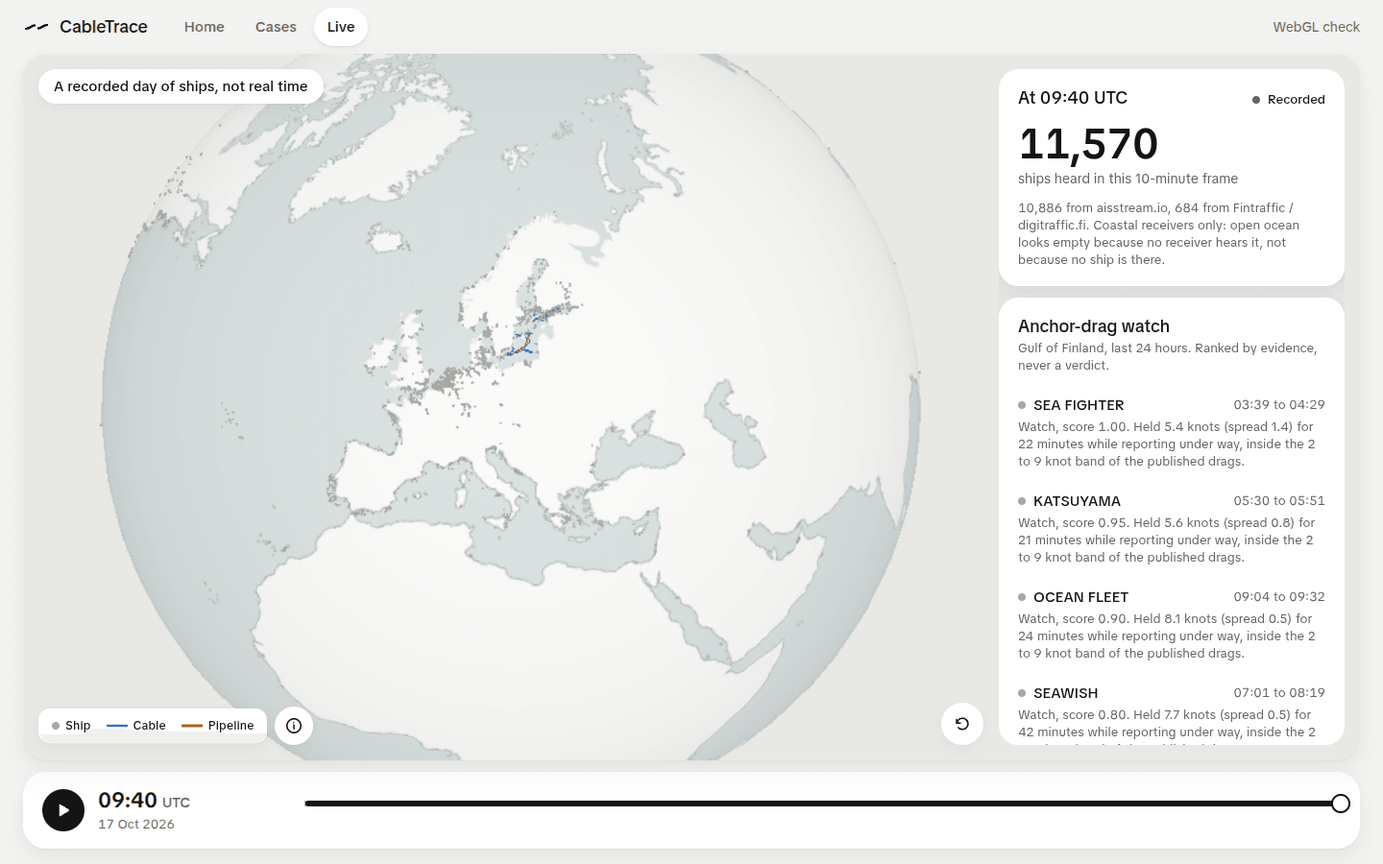
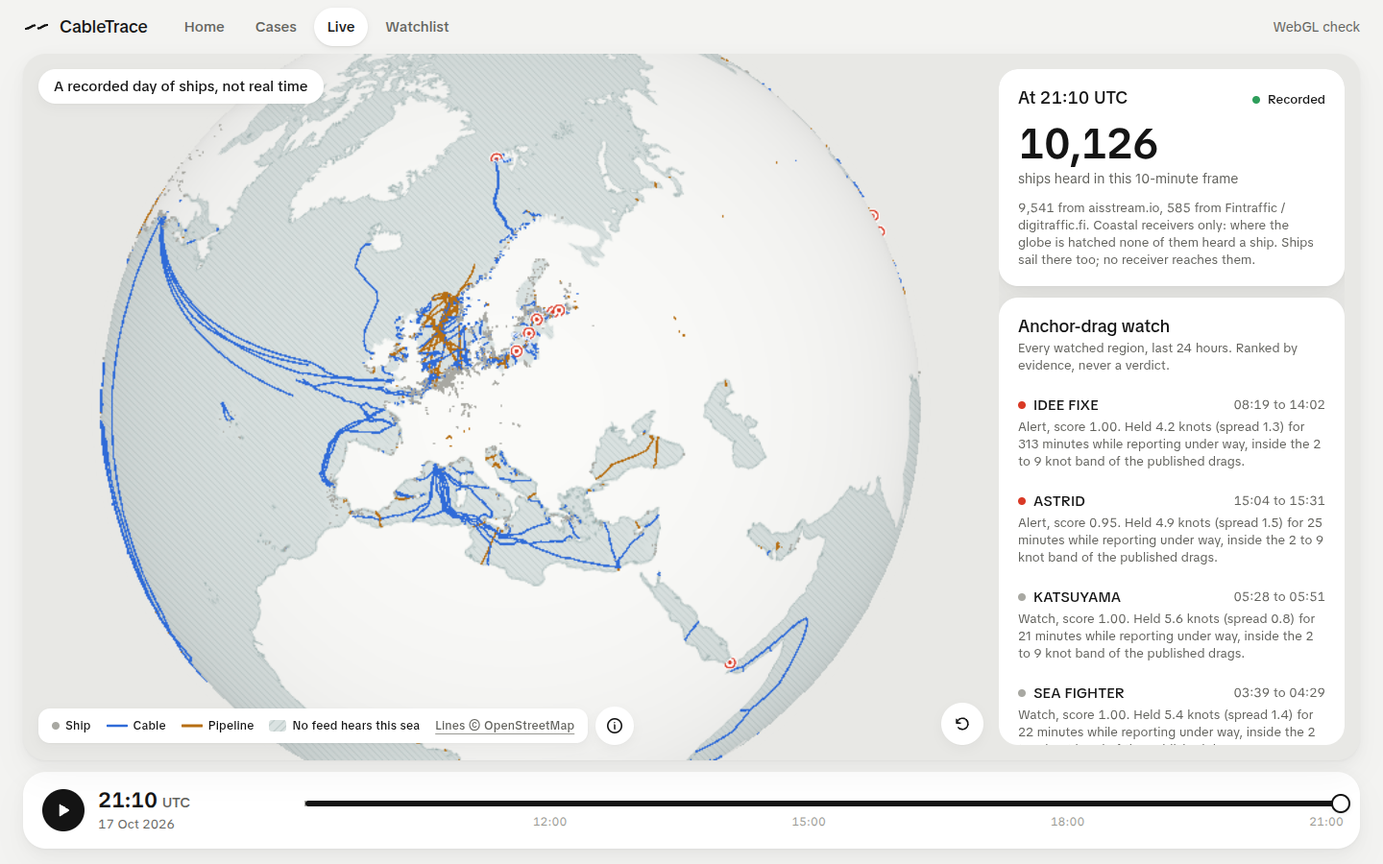
Bring the README up to ten cases, eight regions and today's honest numbers (#33)
The README still described five Baltic cases, one watched region, and
"not built" items that now exist (fault signals, sign-in and watchlists,
more regions). Its backtest badge also said 15 of 15, which no longer
holds.

Updated from fresh runs on 17 Oct 2026:
- 10 cases, 127 sources, 113 archived copies; the Svalbard replay from
the trawler's own AIS.
- Eight watched regions and 336 lines, the detector's per-region depth,
draft cases from fault signals, the watchlist, and the globe's world
lines.
- The backtest at 14 of 15. Gulf traffic gave 2.55 alerts a day against
a target of under 1, stated as an honest finding.
- The new Eagle S case-file hash (5e70b383...19b89, intact), the 276
tests, and the deployed detector run.
- New limits: Rubymar labelled probable, the Svalbard case closed with
no offence, a thin fault-signal feed, and Clerk's development instance.
- A new `/live` screenshot from production with the world lines and the
coverage hatch.
- The data table adds GEBCO, Kystdatahuset (NLOD), ODbL terms for the
derived line files, the ITU MID table and the fault-signal sources.

The TestSprite section is unchanged.

diff --git a/README.md b/README.md
@@ -3,16 +3,17 @@
 </p>
 <h1 align="center">CableTrace</h1>
 <p align="center">
-  The Baltic's anchor-drag cable cuts, replayed in 3D from the published record. Every placed position states how it
-  was derived, every event links to a verbatim quote from its source, and every case downloads as a file whose
-  SHA-256 anyone can recompute.
+  Subsea cable cuts by ships, replayed in 3D from the published record. Every placed position states how it was
+  derived, every event links to a verbatim quote from its source, and every case downloads as a file whose SHA-256
+  anyone can recompute.
 </p>
 <p align="center">Built for the TestSprite Hackathon Season 4, Project Track. Live at <a href="https://cabletrace.vercel.app">cabletrace.vercel.app</a>.</p>
 
 <p align="center">
   <img alt="live" src="https://img.shields.io/badge/live-cabletrace.vercel.app-2E9E5B">
-  <img alt="cases" src="https://img.shields.io/badge/cases-5%20incidents%2C%2088%20sources-2F6BD8">
-  <img alt="detector backtest" src="https://img.shields.io/badge/detector%20backtest-15%20of%2015-D93A26">
+  <img alt="cases" src="https://img.shields.io/badge/cases-10%20incidents%2C%20127%20sources-2F6BD8">
+  <img alt="watched regions" src="https://img.shields.io/badge/watched-8%20regions%2C%20336%20lines-62625D">
+  <img alt="detector backtest" src="https://img.shields.io/badge/detector%20backtest-14%20of%2015-D93A26">
   <img alt="stack" src="https://img.shields.io/badge/stack-Next.js%2016%20%2B%20three.js%200.186-141414">
   <img alt="data" src="https://img.shields.io/badge/data-Supabase%20%2B%20pg__cron-B66E12">
 </p>
@@ -25,77 +26,98 @@
 
 | A recorded day of the world's ships (`/live`)                           | Every quote copied from a source                                   |
 | ----------------------------------------------------------------------- | ------------------------------------------------------------------ |
-| ![The live globe with 10,435 ships and the anchor-drag watch](docs/screenshots/05-live-globe.png) | ![The sources sheet of the Eagle S case](docs/screenshots/04-sources.png) |
+| ![The live globe with 10,126 ships, the world's submarine cables and pipelines, the cuts on file and the anchor-drag watch](docs/screenshots/05-live-globe.png) | ![The sources sheet of the Eagle S case](docs/screenshots/04-sources.png) |
 
 ## 🎯 The problem
 
-Between October 2023 and December 2025, the five incidents replayed here damaged seven Baltic cables and one gas
-pipeline, each time by a merchant ship that sailed on while its anchor dragged along the seabed. Each time, the facts arrive in pieces:
-police statements, operator notices, prosecutors' releases, a MarineTraffic screenshot in a news story, sometimes a
-day of public AIS. Readers get a map with a red line and no way to tell which part is measured and which is a guess.
+The ten incidents replayed here, from Svalbard in January 2022 to the Matsu Islands in March 2026, put 16 cable and
+pipeline cuts on file in the Baltic, the Taiwan Strait, the Red Sea and off Svalbard. In most of them a ship was
+on the spot when the line failed. Each time, the facts arrive in pieces: police statements, operator notices,
+prosecutors' releases, court rulings, a MarineTraffic screenshot in a news story, sometimes a day of public AIS.
+Readers get a map with a red line and no way to tell which part is measured and which is a guess.
 
 The usual answer is a news graphic. It is drawn once, cites nobody line by line, and cannot be checked or reused.
 CableTrace treats each incident as evidence: every position, time and claim carries its source and says how it is
-known, and the gap between "recorded" and "reconstructed" stays visible on screen.
+known, the gap between "recorded" and "reconstructed" stays visible on screen, and a probable finding is labelled as
+one.
 
 ## 🧰 What it does
 
-- **Replays five incidents in 3D.** Fitburg (31 Dec 2025), Vezhen (26 Jan 2025), Eagle S (25 Dec 2024), Yi Peng 3
-  (17 and 18 Nov 2024) and Newnew Polar Bear (7 and 8 Oct 2023), each on a seabed block built from EMODnet depth and
-  Copernicus land heights, with the cables and pipelines of the area. The anchor drag turns the track red; each cut
-  breaks its cable at the time the sources give.
+- **Replays ten incidents in 3D.** In the Baltic: Fitburg (2025), Vezhen (2025), Eagle S (2024), Yi Peng 3 (2024) and
+  Newnew Polar Bear (2023). In the Taiwan Strait: Hai Hong Gong 66 (2026), Minlianyu 60138 (2025) and Hong Tai 58 (2025). Rubymar
+  in the Red Sea (2024) and the Svalbard cable fault (2022). Each sits on a seabed block built from EMODnet depth
+  (Europe) or the GEBCO 2026 grid (Taiwan, Red Sea) and Copernicus land heights, drawn at an exaggeration that fits its
+  depth: 20 times in the Baltic, 2 times off Svalbard. The anchor drag turns the track red; each cut breaks its cable
+  at the time the sources give.
 - **Says how every position is known.** A placed position carries a `placement` text (`src/data/cases/*.ts`): "the
-  point 130 km along the mapped route from its Ventspils end, the distance LVRTC gives". Recorded AIS fixes (Yi Peng 3:
-  114 from the Danish Maritime Authority archive; Vezhen: 35) are drawn solid, placed stretches dashed.
-- **Cites every claim verbatim.** 88 sources across the five cases, 78 with a Wayback Machine copy; a quote not in
-  English keeps a translation beside the original.
+  point 130 km along the mapped route from its Ventspils end, the distance LVRTC gives". Recorded AIS fixes (Svalbard:
+  235 of the trawler's own reports from the Norwegian Coastal Administration; Yi Peng 3: 114 from the Danish Maritime
+  Authority archive; Vezhen: 35) are drawn solid, placed stretches dashed.
+- **Cites every claim verbatim.** 127 sources across the ten cases, 113 with a Wayback Machine copy; a quote not in
+  English keeps a translation beside the original. Rubymar's cause is labelled a probable finding on every event.
 - **Exports each case as a checkable file.** `/cases/<slug>/case-file` serves the case as JSON with the SHA-256 of its
   canonical form; `scripts/cases/verify-case-file.ts` recomputes it.
-- **Watches the Gulf of Finland.** A recorder stores every ship within 3 km of a cable once a minute (Fintraffic
-  Digitraffic). Every 30 minutes an anchor-drag detector ranks the last 6 hours of tracks by evidence and writes
-  `detections`; `/live` lists them.
+- **Watches eight regions.** A recorder stores every ship within 3 km of one of 336 cables and pipelines once a
+  minute: Fintraffic Digitraffic in the Gulf of Finland, a 40 s aisstream.io listen in the Central Baltic, the Danish
+  straits, the English Channel, the North Sea off Shetland, Norway and Svalbard, the Taiwan Strait and Perth. Every 30
+  minutes an anchor-drag detector ranks the last 6 hours of tracks by evidence, with each region's depth grid, and
+  writes `detections`.
+- **Opens draft cases from fault signals.** `match-fault-signals` polls NGA navigational warnings and IODA internet
+  outage alerts, matches each signal to a recorded cable and lists the ships recorded near it before the fault, ranked
+  by the detector. Every draft says "Draft case", never a finding (`docs/FAULT_SIGNALS.md`).
+- **Keeps a watchlist.** Signed-in readers (Clerk) watch a ship, a cable or a case; `/watchlist` lists the detector's
+  alerts on them from the last 24 hours.
 - **Shows a recorded day of the world's ships.** Every 10 minutes a collector writes one compressed frame of every ship
-  aisstream.io and Digitraffic heard; `/live` plays the last 24 hours on a globe, each ship moving between frames on
-  the GPU.
+  aisstream.io and Digitraffic heard; `/live` plays the last 24 hours on a globe with the world's submarine cables and
+  pipelines (4,186 OpenStreetMap lines), hatches the sea no receiver heard, lists the ships that crossed a clicked
+  line, and dives from a cut on the globe into its case.
 
 ## 🧭 How it works
 
 ```mermaid
 flowchart TD
-    subgraph feeds["Public AIS feeds"]
-        digitraffic["Fintraffic Digitraffic<br>(Baltic, CC BY 4.0)"]
-        aisstream["aisstream.io<br>(world, terrestrial)"]
+    subgraph feeds["Public feeds"]
+        digitraffic["Fintraffic Digitraffic<br>(Gulf of Finland, CC BY 4.0)"]
+        aisstream["aisstream.io<br>(seven regions, the world)"]
+        faultFeeds["NGA warnings, IODA outages"]
     end
     subgraph supabase["Supabase: pg_cron, edge functions, Postgres with PostGIS, Storage"]
-        recorder["record-vessel-positions<br>every minute"]
-        positions[("vessel_positions<br>within 3 km of a cable, 14 days")]
+        recorder["record-vessel-positions<br>every minute, 8 regions"]
+        positions[("vessel_positions<br>within 3 km of a line, up to 72 h")]
         detector["detect-anchor-drag<br>at 4 and 34 past the hour"]
-        detections[("detections<br>RLS, read through functions")]
+        detections[("detections<br>read through functions")]
+        matcher["match-fault-signals<br>every 15 to 60 minutes"]
+        drafts[("draft cases<br>status draft only")]
         collector["collect-ship-frames<br>every 10 minutes"]
-        frames[("ship-frames bucket<br>one frame a slot, 47 hours")]
+        frames[("ship-frames bucket<br>private, 47 hours")]
     end
     subgraph vercel["Vercel: Next.js 16"]
         cases["Case pages and case files<br>prerendered from src/data/cases"]
         frameRoute["/api/ship-frames<br>CDN cache, 2 days a frame"]
+        watchRoute["/watchlist, /api/watchlist<br>Clerk session"]
     end
     subgraph browser["Browser: three.js"]
         replay["Replay console<br>/cases/slug"]
         globe["Live globe<br>/live"]
     end
-    digitraffic -->|"positions"| recorder --> positions
-    positions -->|"0.85 MB a call"| detector --> detections
-    aisstream -->|"105 s of messages"| collector
-    digitraffic -->|"Baltic snapshot"| collector --> frames
-    frames -->|"one fill per frame"| frameRoute -->|"gzip frame"| globe
+    digitraffic -->|"positions"| recorder
+    aisstream -->|"40 s listen"| recorder --> positions
+    positions -->|"detection_inputs"| detector --> detections
+    faultFeeds --> matcher --> drafts
+    positions -->|"ships near the cable"| matcher
+    aisstream -->|"105 s of messages"| collector --> frames
+    frames -->|"secret key, one fill per frame"| frameRoute -->|"gzip frame"| globe
     detections -->|"recent_detections"| globe
+    drafts -->|"recent draft cases"| globe
+    detections --> watchRoute
     cases -->|"HTML, seabed files"| replay
     classDef feedSide fill:#E8E8E5,stroke:#62625D,color:#141414
     classDef dataSide fill:#DAE2E1,stroke:#2E9E5B,color:#141414
     classDef siteSide fill:#FAFAF8,stroke:#141414,color:#141414
     classDef browserSide fill:#F3F3F1,stroke:#2F6BD8,color:#141414
-    class digitraffic,aisstream feedSide
-    class recorder,positions,detector,detections,collector,frames dataSide
-    class cases,frameRoute siteSide
+    class digitraffic,aisstream,faultFeeds feedSide
+    class recorder,positions,detector,detections,matcher,drafts,collector,frames dataSide
+    class cases,frameRoute,watchRoute siteSide
     class replay,globe browserSide
 ```
 
@@ -103,11 +125,13 @@ Gray: outside feeds. Green outline: Supabase. Black outline: Vercel. Blue outlin
 
 The cases are data in the repository, so a case page needs nothing at run time: Vercel prerenders it, and the
 browser loads the seabed block and draws it. Everything live runs on Supabase's free plan and on pg_cron, with no
-server of its own. When a run fails, the failure shows rather than hides:
+server of its own. Recorder tables, detections, drafts and watch items have no public read: the site reads them
+through capped functions or with the secret key on the server. When a run fails, the failure shows rather than hides:
 
 - The recorder card on the home page says "Run failed" or "Stopped" with the minutes since the last run.
 - A collector run that writes no frame leaves a gap in the `/live` timeline, one tick per stored frame.
 - A frame that cannot be loaded puts a notice on the globe, and the last good pair stays on screen.
+- A depth grid the detector cannot load is logged and skipped; ships outside every grid get the unknown-depth band.
 - A browser without WebGL 2 gets "The 3D view did not load" and a retry. On a software renderer (headless test
   browsers) both 3D views drop antialiasing and shadows, draw at a lower pixel ratio and only when something changes.
 
@@ -124,7 +148,7 @@ are in `src/lib/detection/drag-rules.ts`.
 | `speed-deficit`       | 20% or more slower than the ship's own speed before or after               | Eagle S 25%; Yi Peng 3 27% (DMA archive) and 33% (Lloyd's List)            |
 | `speed-change-point`  | a drop of 1.5 kn or more where the run starts                              | a quarter of the 6 to 9 kn band                                            |
 | `heading-offset`      | heading turns 2 degrees or more away from course during the run            | Yi Peng 3: +0.7 against -1.4 degrees, a 2.1 degree shift                   |
-| `cable-contact`       | the reconstructed anchor path crosses a cable, or follows one within 500 m for 2 km | anchor behind the ship by the chain length for its size (IACS UR A1) and the depth |
+| `cable-contact`       | the reconstructed anchor path crosses a cable, or follows one within 500 m for 2 km | anchor behind the ship by the chain length for its size (IACS UR A1) and the depth under it |
 
 An alert needs the strong form of the speed deficit and a straight run; anything weaker stays a watch. Pilot boats,
 tugs, dredgers and other working craft (AIS ship types 30 to 34, 36, 37, 50 to 55 and 58) are not eligible.
@@ -135,27 +159,36 @@ tugs, dredgers and other working craft (AIS ship types 30 to 34, 36, 37, 50 to 5
 | ---------------------------- | ----------------------------------------------------------------------------------------- |
 | The app                      | [cabletrace.vercel.app](https://cabletrace.vercel.app)                                    |
 | A replay                     | [/cases/eagle-s-2024](https://cabletrace.vercel.app/cases/eagle-s-2024)                   |
+| A replay from the trawler's own AIS | [/cases/svalbard-2022](https://cabletrace.vercel.app/cases/svalbard-2022)          |
 | A deep link (minute, view, card) | [/cases/yi-peng-3-2024?t=2024-11-18T07:10Z&mode=ship&view=top](https://cabletrace.vercel.app/cases/yi-peng-3-2024?t=2024-11-18T07:10Z&mode=ship&view=top) |
 | A case file                  | [/cases/eagle-s-2024/case-file](https://cabletrace.vercel.app/cases/eagle-s-2024/case-file) |
 | The recorded day             | [/live](https://cabletrace.vercel.app/live)                                               |
+| Health of the recorder and collector | [/api/health](https://cabletrace.vercel.app/api/health)                           |
 | WebGL check of your browser  | [/diagnostics](https://cabletrace.vercel.app/diagnostics)                                 |
 
 Evidence:
 
 - **A case file checks out.** `bun scripts/cases/verify-case-file.ts https://cabletrace.vercel.app/cases/eagle-s-2024/case-file`
-  printed `computed 2e549bfe...db518`, `intact`, and exited 0 on 17 Oct 2026.
+  printed `computed 5e70b383...19b89`, `intact`, and exited 0 on 17 Oct 2026.
 - **A changed file does not.** The same file with one latitude moved by 0.001 degrees printed
   `ALTERED, the hashes differ` and exited 1.
 - **The detector flags the one drag with public AIS.** On Yi Peng 3's archive track (one report a minute) it raised an
   alert from the first surviving report, 06:01 UTC on 18 Nov 2024, ending at 08:21, 3 minutes before the published
-  end (`bun scripts/backtest/run-backtest.ts`, 15 of 15 expectations).
-- **And stays quiet on ordinary traffic.** Replayed on its live schedule over 7.4 hours of recorded Gulf of Finland
-  traffic (240 ships, 27,336 positions), it raised 0 alerts; 7 red-team tracks (a ship anchored beside a cable, a
-  spoofed position jump, a tug towing across a cable) raised none.
+  end (`bun scripts/backtest/run-backtest.ts`).
+- **And says no to the red team.** 7 red-team tracks (a ship anchored beside a cable, a spoofed position jump, a tug
+  towing across a cable) raised no alert.
+- **But it is noisier than its target on live traffic.** Replayed on its live schedule over 18.8 hours of recorded Gulf
+  of Finland traffic (923 ships, 68,181 positions on 17 Oct 2026), it raised 2 alerts: 2.55 a day against a target of
+  under 1. The backtest reports this as the one failed expectation of 15 and exits 1; the thresholds were not moved to
+  pass it.
 - **The database filter loses nothing.** The live query sends only ships that can hold a drag run; on the same
-  traffic it would have dropped 0 of 194 tracks the detector flagged.
+  traffic it would have dropped 0 of 586 tracks the detector flagged.
+- **The detector runs on all eight regions.** A manual run of the deployed function on 17 Oct 2026 read 237 ships with
+  depth known and stored 45 detections: 1 alert in the Gulf of Finland and 44 watch-level rows.
+- **Strangers read nothing raw.** An anonymous call to `detection_inputs` answers HTTP 401 (permission denied), and a
+  watchlist read without a session is refused.
 - **Every page fits one screen.** `bun scripts/perf/check-one-screen.ts` exits 0 for home, the case list, `/live`
-  and all five cases at 1440 x 900, 1280 x 720 and 1024 x 768; the 3D view covers 65.4% of a 1440 x 900 screen.
+  and all ten cases at 1440 x 900, 1280 x 720 and 1024 x 768; the 3D view covers 65.4% of a 1440 x 900 screen.
 
 ## 🧪 Reproduce it
 
@@ -168,10 +201,11 @@ bun install
 bun run dev
 ```
 
-Open http://localhost:3000. The five replays, the case files and the WebGL check work with no configuration: their
+Open http://localhost:3000. The ten replays, the case files and the WebGL check work with no configuration: their
 data is in the repository. The recorder card and `/live` need a Supabase project with the migrations in
-`supabase/migrations`, and `NEXT_PUBLIC_SUPABASE_URL` and `NEXT_PUBLIC_SUPABASE_PUBLISHABLE_KEY` in `.env.local`;
-without them the card reads "Unavailable" and `/live` says the day could not be loaded.
+`supabase/migrations`, and `NEXT_PUBLIC_SUPABASE_URL`, `NEXT_PUBLIC_SUPABASE_PUBLISHABLE_KEY` and
+`SUPABASE_SECRET_KEY` in `.env.local`; without them the card reads "Unavailable" and `/live` says the day could not be
+loaded. The watchlist also needs a Clerk application (`NEXT_PUBLIC_CLERK_PUBLISHABLE_KEY`, `CLERK_SECRET_KEY`).
 
 The checks a pull request passes:
 
@@ -182,7 +216,7 @@ bun test src
 bun run build
 ```
 
-Success: each exits 0; `bun test src` runs 156 tests.
+Success: each exits 0; `bun test src` runs 276 tests.
 
 Check a case file from the live site (it touches nothing):
 
@@ -201,28 +235,38 @@ bun scripts/perf/check-one-screen.ts http://localhost:3000
 
 The backtest reads the recorded traffic of the CableTrace Supabase project with SELECT statements only, through the
 Management API; it needs that project's `SUPABASE_ACCESS_TOKEN` and `SUPABASE_PROJECT_REF`, refuses any other project,
-and exits 2 without them.
+and exits 2 without them. Today it exits 1: 14 of its 15 expectations hold (see above).
 
 ## ⚠ What is real and what is reconstructed
 
-- **Most past ship positions are reconstructed.** No free archive holds any suspect ship's AIS at the moment of a cut.
-  Eagle S, Fitburg and Newnew Polar Bear are placed entirely from statements and published maps, Yi Peng 3 and Vezhen
-  partly. Each placed position says how it was derived, the replay labels it "reconstructed position", and its
-  stretch of track is dashed. The charts say when a speed is a straight-line average between placed positions.
+- **Most past ship positions are reconstructed.** No free archive holds most suspect ships' AIS at the moment of a
+  cut. Eagle S, Fitburg, Newnew Polar Bear, Rubymar and the three Taiwan cases are placed from statements, court
+  records and published maps; Yi Peng 3 and Vezhen partly. Each placed position says how it was derived, the replay
+  labels it "reconstructed position", and its stretch of track is dashed. The charts say when a speed is a
+  straight-line average between placed positions. Svalbard is the one replay built entirely from the ship's own AIS.
+- **Not every case names a culprit.** Rubymar's anchor is the cause the US National Security Council called "most
+  likely", so every Rubymar event says probable. Norwegian police closed the Svalbard case as no criminal offence; the
+  replay shows the trawler's track and never says it cut the cable. Rubymar's cut positions are read off a map in
+  Meta's engineers' slides, and its cables are not drawn because no licensable route map exists.
 - **The close-up is illustrated.** The anchor, chain, cable armour and torn ends at the cut are drawn to show what
-  happens, labeled "illustrated"; the Measured switch shows only the surveyed seabed. Water depth is drawn 20 times
-  deeper and ships larger than life, and the scale note under the view says by how much
-  (`src/lib/seabed/scene-scales.ts`). Every ship uses one 228 m hull; Fitburg is 132 m and Newnew Polar Bear 169 m.
+  happens, labeled "illustrated"; the Measured switch shows only the surveyed seabed. Depth and land are drawn larger
+  than life by a factor each area picks from its relief (20 and 10 in the Baltic, 10 and 3 in the Red Sea, 2 and 2
+  off Svalbard), ships too, and the scale note under the view states that area's numbers
+  (`src/lib/seabed/scene-scales.ts`). Every ship uses one 228 m hull; each case states its ship's real length.
 - **`/live` is a recorded day, not real time.** Frames are 10 minutes apart and a ship moves in a straight line between
-  two reports. aisstream.io is terrestrial AIS: open ocean looks empty because no receiver hears it, and the page
-  says so. aisstream publishes no terms, so its data is kept 2 days and credited.
-- **The detector's quiet record is short.** Its false-alert rate comes from 7.4 hours of recorded traffic, and some
-  thresholds were set while looking at those hours; the rate on later days is the honest test and the backtest
-  replays up to 7. It cannot alert while a ship drags at its normal speed: on Yi Peng 3 the first alert came 98
-  minutes after the drag ended, once the ship sped up. The live table has no ship dimensions yet, so the anchor model
-  falls back to a 120 to 300 m size band.
-- **Not built:** fault signals (outage notices opening draft cases), sign-in and watchlists, more watched regions than
-  the Gulf of Finland, and the WebGPU renderer tier.
+  two reports. aisstream.io is terrestrial AIS: the globe hatches the sea no receiver heard, and the page says so.
+  aisstream publishes no terms, so its data is kept 2 days and credited.
+- **The detector's quiet record is short and not yet met.** On 18.8 hours of Gulf traffic it raised 2.55 alerts a day
+  against a target of under 1 (IDEE FIXE ran slow and straight for 5.5 hours, ASTRID for 39 minutes). Outside the Gulf its
+  false-alert rate is untested; one 6-hour window gave 20 watch-level rows in the English Channel and North Sea. It
+  cannot alert while a ship drags at its normal speed: on Yi Peng 3 the first live-schedule alert came 98 minutes after
+  the drag ended, once the ship sped up. A ship with no reported dimensions falls back to a 120 to 300 m size band.
+- **Fault signals are thin.** NGA's warning feed has published nothing newer than 10 May 2024. IODA publishes no terms
+  for redisplay, so a signal shows only its title and a link. ENTSO-E power-link outages wait for an API token.
+- **Accounts run on Clerk's development instance.** A production instance needs a custom domain; the development tier
+  allows 100 users.
+- **Not built:** the WebGPU renderer tier, and Norway's own AIS feed (BarentsWatch), so Norway and Svalbard are heard
+  through aisstream only.
 
 ## 🏆 TestSprite
 
@@ -236,15 +280,19 @@ reconstructed track, and the case list. Screens expose stable `data-testid` and 
 
 | Data                         | Source                                                                                  | Licence                       |
 | ---------------------------- | --------------------------------------------------------------------------------------- | ----------------------------- |
-| Water depth                  | EMODnet Bathymetry Consortium, EMODnet Digital Bathymetry (DTM 2024)                     | CC BY 4.0                     |
+| Water depth, Europe          | EMODnet Bathymetry Consortium, EMODnet Digital Bathymetry (DTM 2024)                     | CC BY 4.0                     |
+| Water depth, Taiwan and Red Sea | GEBCO Compilation Group (2026) GEBCO 2026 Grid (doi:10.5285/4f68d5c7-45eb-f999-e063-7086abc036fa) | public domain |
 | Land heights and coast       | Copernicus DEM GLO-30, produced using Copernicus WorldDEM-30 (c) DLR e.V. 2010-2014 and (c) Airbus Defence and Space GmbH 2014-2018, provided under COPERNICUS by the European Union and ESA | Copernicus DEM licence, free with attribution |
-| Cables                       | OpenStreetMap contributors; EE-S1 traced off a Yle map (yle.fi/a/74-20056160)           | ODbL                          |
+| Cables, seabed blocks and globe | OpenStreetMap contributors; EE-S1 traced off a Yle map (yle.fi/a/74-20056160); TP3 placed from Taiwan's Ministry of Digital Affairs and Coast Guard statements | ODbL 1.0; the derived files (`public/globe/cables.json`, the lines in `public/seabed/*-seabed.json`) are offered under ODbL 1.0 |
 | Pipelines                    | EMODnet Human Activities                                                                | CC BY 4.0                     |
 | Globe land                   | Natural Earth 1:50m                                                                     | public domain                 |
-| Recorded AIS in two cases    | Danish Maritime Authority AIS archive (aisdata.ais.dk)                                  | DMA terms for the archive     |
-| Live Baltic positions        | Fintraffic, digitraffic.fi                                                              | CC BY 4.0                     |
-| Live world positions         | aisstream.io                                                                            | no terms published; kept 2 days, credited |
-| Case statements and quotes   | 88 primary and press sources, listed per case in the app and in each case file          | quoted for reporting          |
+| Recorded AIS, Yi Peng 3 and Vezhen | Danish Maritime Authority AIS archive (aisdata.ais.dk)                            | DMA terms for the archive     |
+| Recorded AIS, Svalbard       | Norwegian Coastal Administration, Kystdatahuset                                         | NLOD                          |
+| Live Gulf of Finland positions | Fintraffic, digitraffic.fi                                                            | CC BY 4.0                     |
+| Live positions, other regions and the globe | aisstream.io                                             | no terms published; kept 2 days, credited |
+| Flags from MMSI              | ITU, Maritime Identification Digits table (read 17 Oct 2026)                             | facts, credited               |
+| Fault signals                | NGA Maritime Safety Information broadcast warnings; IODA (Georgia Tech) outage alerts   | US government work; IODA shown as title and link only |
+| Case statements and quotes   | 127 primary and press sources, listed per case in the app and in each case file         | quoted for reporting          |
 
 The Copernicus licence asks for this sentence with modified data: the organisations in charge of the Copernicus
 programme by law or by delegation do not incur any liability for any use of the Copernicus WorldDEM-30.
@@ -261,13 +309,14 @@ programme by law or by delegation do not incur any liability for any use of the 
 ## 📦 Repository layout
 
 ```
-docs/             design system, performance numbers, README assets
-public/           seabed blocks (depth grid and lines per area), globe land
-scripts/          seabed and land builders, AIS extraction, backtest, perf checks, case file check
-src/app/          pages and route handlers (cases, case files, /live, /api)
-src/components/   console, live globe, cases, layout, shared UI
-src/data/cases/   the five cases: positions, events, cuts, sources, AIS fixes
-src/lib/          case model, detection, globe, live frames, seabed and 3D scenes
-supabase/         edge functions (recorder, detector, collector) and migrations
-testsprite/       TestSprite test plans
+docs/               design system, performance, regions, fault signals, README assets
+public/             seabed blocks (depth grid and lines per area), globe land and world lines
+scripts/            seabed, land and globe builders, AIS extraction, backtest, fault-signal replay, perf checks, case file check
+src/app/            pages and route handlers (cases, case files, /live, /watchlist, sign-in, /api)
+src/components/     console, live globe, cases, watchlist, layout, shared UI
+src/data/cases/     the ten cases: positions, events, cuts, sources, AIS fixes
+src/data/regions/   the eight watched regions: boxes, feeds, recording thresholds, incidents
+src/lib/            case model, detection, fault signals, regions, watchlist, globe, live frames, seabed and 3D scenes
+supabase/           edge functions (recorder, detector, collector, fault-signal matcher) and migrations
+testsprite/         TestSprite test plans
 ```
